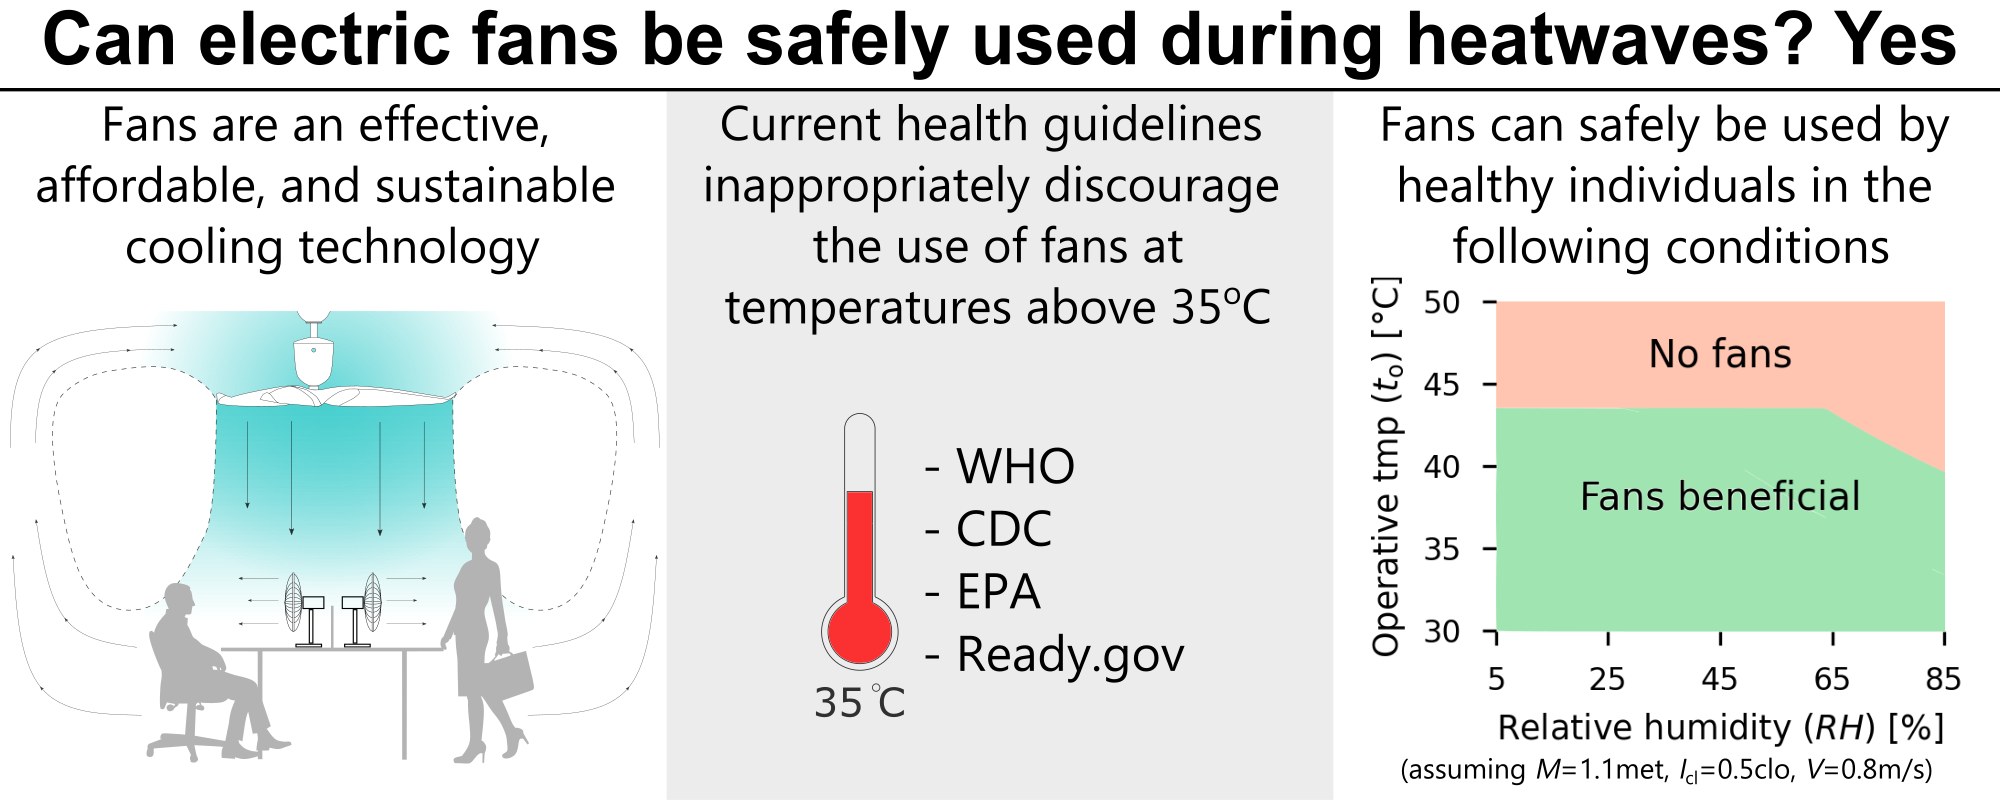
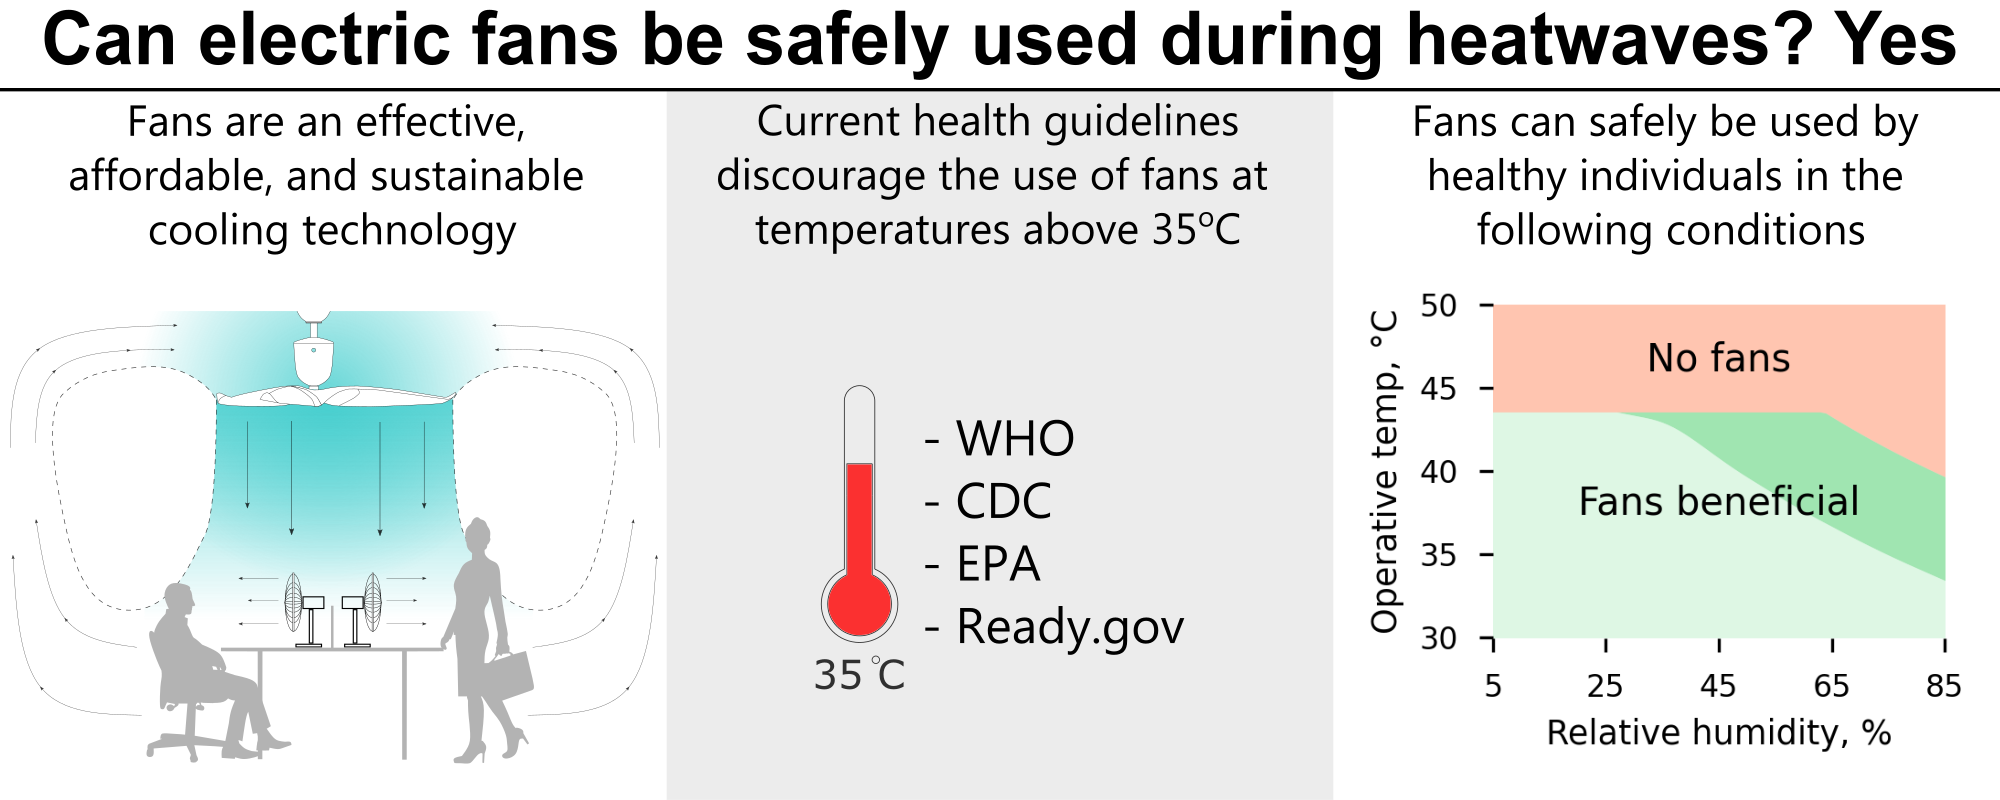
fix: typos in abstract and improved graphical abstract

diff --git a/manuscript/src/sections/titleAbstract.tex b/manuscript/src/sections/titleAbstract.tex
@@ -21,24 +21,24 @@
 
 \begin{abstract}
     The WHO classifies heatwaves as one of the most dangerous natural hazards causing more than 166,000 deaths from 1998--2017.
-    Their frequency is increasing and their are becoming more intense.
-    
+    Their frequency is increasing, and they are becoming more intense.
+
     Electric fans are an efficient, and sustainable solution to cool people.
     They are, for most applications, the cheapest cooling technology available.
     However, many national and international guidelines actively advise people not to use them when indoor air temperatures exceed the skin temperature, approximately 35~$^{\circ}$C\@.
-    
+
     We used a human energy balance model, to verify the validity of those recommendations and to determine under which environmental (air temperature, humidity, air speed and mean radiant temperature) and personal (metabolic rate, clothing) conditions the use of fans would be beneficial.
-    
+
     We found that current guidelines are too restrictive.
     Electric fans can be used safely even if the indoor dry-bulb temperature exceeds the skin temperature since they significantly increase the amount of sweat that evaporates from the skin.
     The use of elevated air speeds (0.8~m/s) increases the critical operative temperature at which heat strain is expected to occur by an average of \var{avg_increase_t_strain_v_08}~$^{\circ}$C for relative humidity values above 22~\%\@.
-    We also analysed the most extreme weather events with a 20 year return period from 1990 to 2014 recorded in the 115 most populous cities worldwide and we concluded that in 103 of them the use of fans would have been beneficial.
-    
-    We developed a free, open-source, and easy-to-use online tool (\url{https://comfort.cbe.berkeley.edu})to help researchers, building practitioners, and policymakers better understand under which conditions electric fans can be safely used to cool people. 
+    We also analysed the most extreme weather events with a 20-year return period from 1990 to 2014 recorded in the 115 most populous cities worldwide, and we concluded that in 103 of them the use of fans would have been beneficial.
+
+    We developed a free, open-source, and easy-to-use online tool (\url{https://comfort.cbe.berkeley.edu})to help researchers, building practitioners, and policymakers better understand under which conditions electric fans can be safely used to cool people.
 \end{abstract}
 
 \begin{keyword}
-Resilience \sep Heat stress \sep Cooling \sep Air movement \sep Heat Strain \sep Energy \sep Open-source tool
+Resilience \sep Heat stress \sep Cooling \sep Air movement \sep Heat Strain \sep Open-source tool
 \end{keyword}
 
 \end{frontmatter}

diff --git a/code/main.py b/code/main.py
@@ -2721,8 +2721,8 @@ if __name__ == "__main__":
                 ylim=(29.95, 50),
                 xlim=(5, 85.05),
                 xticks=(np.arange(5, 95, 20)),
-                xlabel=chart_labels["rh"],
-                ylabel=r"Operative tmp ($t_{\mathrm{o}}$) [°C]",
+                xlabel="Relative humidity, %",
+                ylabel=r"Operative temp, °C",
             )
             sns.despine(left=True, bottom=True, right=True)
             plt.savefig(
